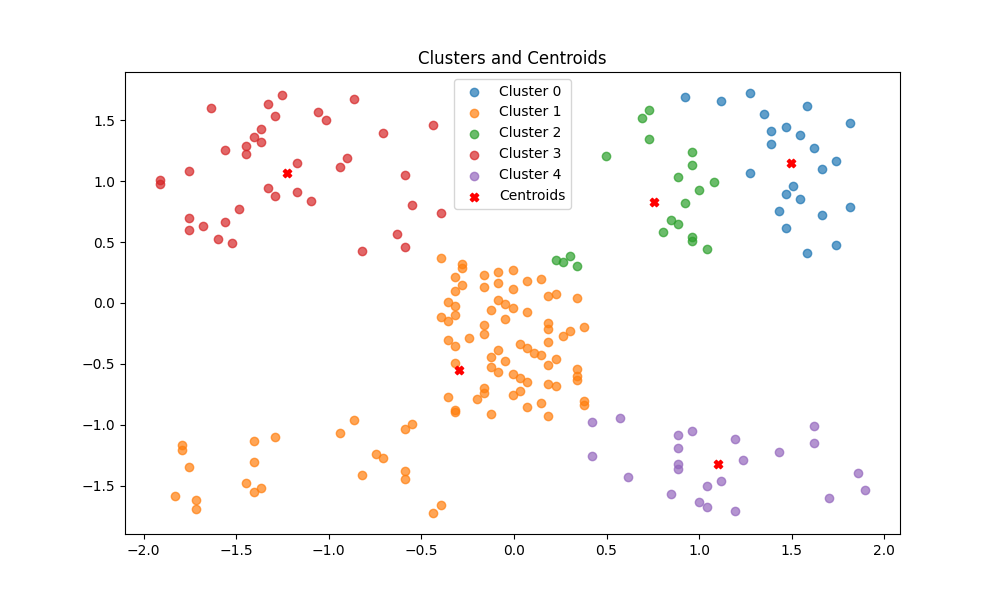
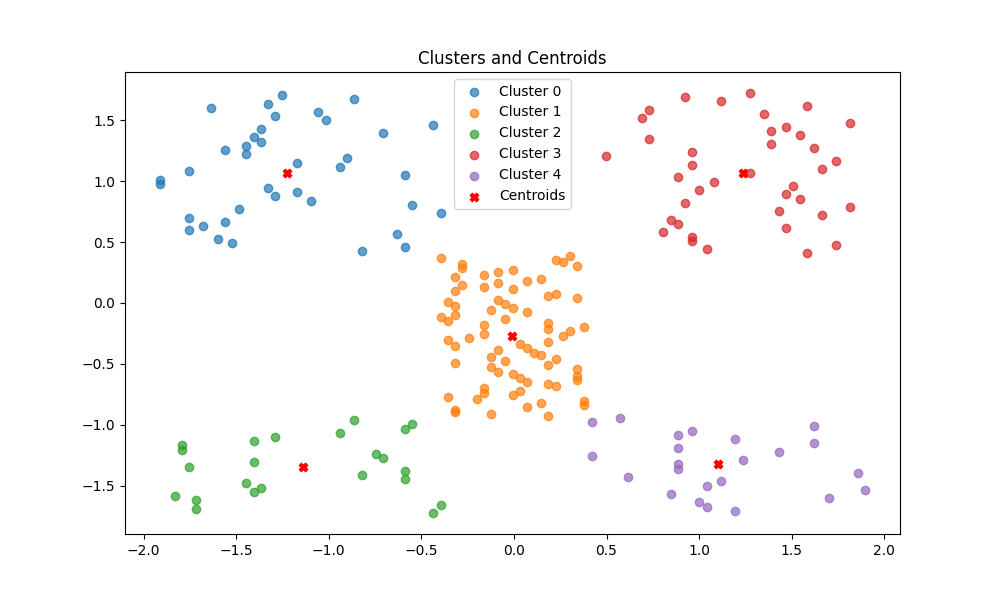
update

diff --git a/kmeans.py b/kmeans.py
@@ -46,7 +46,7 @@ data = pd.read_csv(os.path.join('dataset', 'Mall_Customers.csv'))
 # data['Gender'] = data['Gender'].map({'Male': 0, 'Female': 1})
 scaler = StandardScaler()
 scaledData = scaler.fit_transform(data[['Spending Score (1-100)','CustomerID']])
-classifier = KMeans(k=9)
+classifier = KMeans(k=5)
 clusterLabels = classifier.fitAndPredict(scaledData)
 classifier.plotClusters(scaledData)
 data['Cluster'] = clusterLabels
